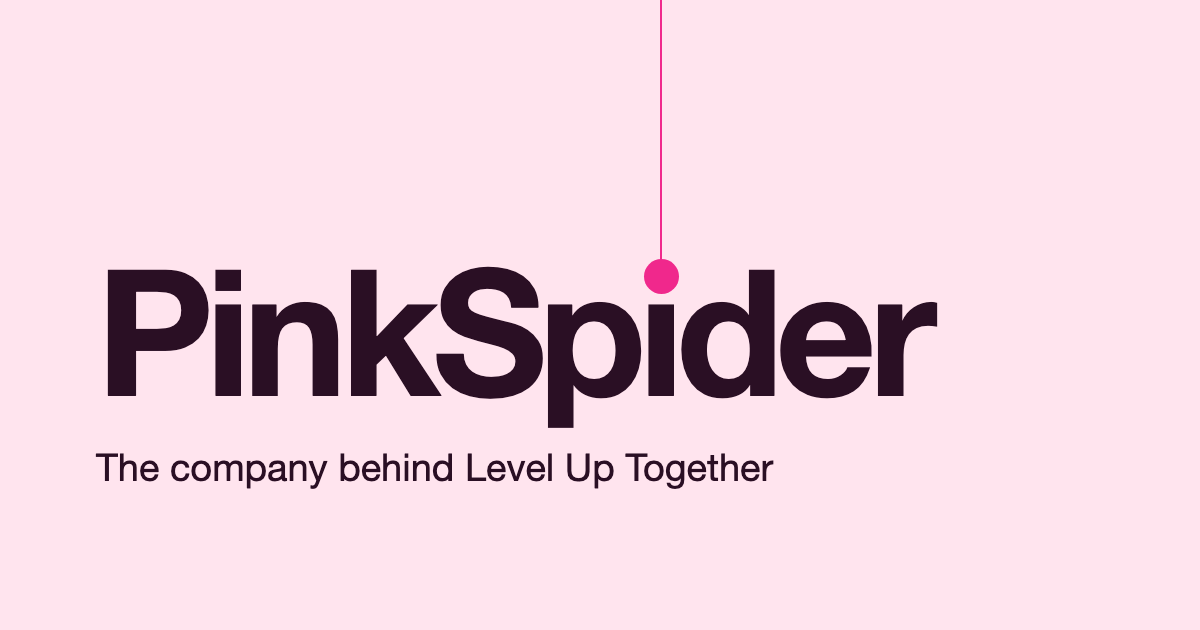
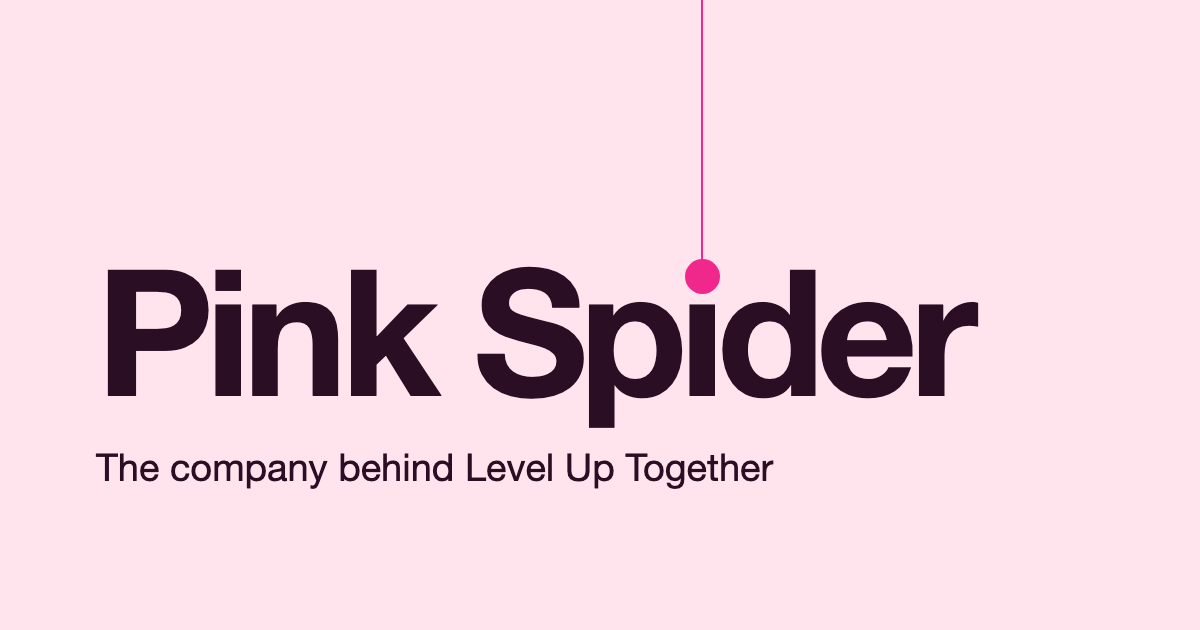
fix: [LUT-855] 회사 이름 Pink Spider 로 표기 통일

Changed region(s): [[0.3392, 0.3921, 0.8325, 0.6937]]

diff --git a/ko/index.html b/ko/index.html
@@ -3,10 +3,10 @@
   <head>
     <meta charset="utf-8" />
     <meta name="viewport" content="width=device-width, initial-scale=1" />
-    <title>PinkSpider | 레벨업투게더를 만드는 회사</title>
+    <title>Pink Spider | 레벨업투게더를 만드는 회사</title>
     <meta
       name="description"
-      content="PinkSpider는 레벨업투게더(Level Up Together)를 만드는 소프트웨어 회사입니다. 레벨업투게더는 할 일을 미션으로 바꾸고, 완료할 때마다 레벨이 오르는 앱입니다. 웹, iOS, Android에서 쓸 수 있습니다."
+      content="Pink Spider는 레벨업투게더(Level Up Together)를 만드는 소프트웨어 회사입니다. 레벨업투게더는 할 일을 미션으로 바꾸고, 완료할 때마다 레벨이 오르는 앱입니다. 웹, iOS, Android에서 쓸 수 있습니다."
     />
     <link rel="canonical" href="https://pink-spider.io/ko/" />
     <link rel="alternate" hreflang="en" href="https://pink-spider.io/" />
@@ -16,8 +16,8 @@
     <meta name="theme-color" content="#ffe4ee" media="(prefers-color-scheme: light)" />
     <meta name="theme-color" content="#210b1c" media="(prefers-color-scheme: dark)" />
     <meta property="og:type" content="website" />
-    <meta property="og:site_name" content="PinkSpider" />
-    <meta property="og:title" content="PinkSpider | 레벨업투게더를 만드는 회사" />
+    <meta property="og:site_name" content="Pink Spider" />
+    <meta property="og:title" content="Pink Spider | 레벨업투게더를 만드는 회사" />
     <meta
       property="og:description"
       content="할 일을 미션으로 바꾸고, 완료할 때마다 레벨이 오르는 앱 레벨업투게더를 만듭니다."
@@ -34,8 +34,7 @@
       {
         "@context": "https://schema.org",
         "@type": "Organization",
-        "name": "PinkSpider",
-        "legalName": "PinkSpider Co.",
+        "name": "Pink Spider",
         "url": "https://pink-spider.io/",
         "email": "contact@pink-spider.io",
         "employee": {
@@ -59,9 +58,9 @@
 
     <main>
       <header class="hero">
-        <h1 class="wordmark" lang="en">PinkSp<span class="wordmark__i">i<span class="spider" aria-hidden="true"><span class="spider__body"></span></span></span>der</h1>
+        <h1 class="wordmark" lang="en">Pink Sp<span class="wordmark__i">i<span class="spider" aria-hidden="true"><span class="spider__body"></span></span></span>der</h1>
         <p class="lede">
-          PinkSpider는 소프트웨어 회사입니다. 할&nbsp;일을 미션으로 바꾸고, 완료할 때마다 레벨이
+          Pink&nbsp;Spider는 소프트웨어 회사입니다. 할&nbsp;일을 미션으로 바꾸고, 완료할 때마다 레벨이
           오르는 앱 레벨업투게더를 만듭니다.
         </p>
       </header>
@@ -109,7 +108,7 @@
         <h2 class="section__title" id="company-title">회사 정보</h2>
         <dl class="facts">
           <dt>회사</dt>
-          <dd lang="en">PinkSpider Co.</dd>
+          <dd lang="en">Pink Spider</dd>
           <dt>대표자</dt>
           <dd>박윤구</dd>
           <dt>문의</dt>
@@ -121,7 +120,7 @@
     </main>
 
     <footer class="footer">
-      <p lang="en">© 2026 PinkSpider Co.</p>
+      <p lang="en">© 2026 Pink Spider</p>
     </footer>
   </body>
 </html>

diff --git a/index.html b/index.html
@@ -3,10 +3,10 @@
   <head>
     <meta charset="utf-8" />
     <meta name="viewport" content="width=device-width, initial-scale=1" />
-    <title>PinkSpider | The company behind Level Up Together</title>
+    <title>Pink Spider | The company behind Level Up Together</title>
     <meta
       name="description"
-      content="PinkSpider is the software company that makes Level Up Together, an app that turns to-dos into missions and levels you up as you complete them. Available on the web, iOS, and Android."
+      content="Pink Spider is the software company that makes Level Up Together, an app that turns to-dos into missions and levels you up as you complete them. Available on the web, iOS, and Android."
     />
     <link rel="canonical" href="https://pink-spider.io/" />
     <link rel="alternate" hreflang="en" href="https://pink-spider.io/" />
@@ -16,8 +16,8 @@
     <meta name="theme-color" content="#ffe4ee" media="(prefers-color-scheme: light)" />
     <meta name="theme-color" content="#210b1c" media="(prefers-color-scheme: dark)" />
     <meta property="og:type" content="website" />
-    <meta property="og:site_name" content="PinkSpider" />
-    <meta property="og:title" content="PinkSpider | The company behind Level Up Together" />
+    <meta property="og:site_name" content="Pink Spider" />
+    <meta property="og:title" content="Pink Spider | The company behind Level Up Together" />
     <meta
       property="og:description"
       content="We make Level Up Together, an app that turns to-dos into missions and levels you up as you complete them."
@@ -34,8 +34,7 @@
       {
         "@context": "https://schema.org",
         "@type": "Organization",
-        "name": "PinkSpider",
-        "legalName": "PinkSpider Co.",
+        "name": "Pink Spider",
         "url": "https://pink-spider.io/",
         "email": "contact@pink-spider.io",
         "employee": {
@@ -57,9 +56,9 @@
 
     <main>
       <header class="hero">
-        <h1 class="wordmark">PinkSp<span class="wordmark__i">i<span class="spider" aria-hidden="true"><span class="spider__body"></span></span></span>der</h1>
+        <h1 class="wordmark">Pink Sp<span class="wordmark__i">i<span class="spider" aria-hidden="true"><span class="spider__body"></span></span></span>der</h1>
         <p class="lede">
-          PinkSpider is a software company. We make Level Up Together, an app that turns your
+          Pink Spider is a software company. We make Level Up Together, an app that turns your
           <span class="nowrap">to-dos</span> into missions and levels you up as you complete them.
         </p>
       </header>
@@ -107,7 +106,7 @@
         <h2 class="section__title" id="company-title">Company</h2>
         <dl class="facts">
           <dt>Name</dt>
-          <dd>PinkSpider Co.</dd>
+          <dd>Pink Spider</dd>
           <dt>Representative</dt>
           <dd>Yungoo Park</dd>
           <dt>Contact</dt>
@@ -119,7 +118,7 @@
     </main>
 
     <footer class="footer">
-      <p>© 2026 PinkSpider Co.</p>
+      <p>© 2026 Pink Spider</p>
     </footer>
   </body>
 </html>

diff --git a/404.html b/404.html
@@ -3,7 +3,7 @@
   <head>
     <meta charset="utf-8" />
     <meta name="viewport" content="width=device-width, initial-scale=1" />
-    <title>Page not found | PinkSpider</title>
+    <title>Page not found | Pink Spider</title>
     <meta name="robots" content="noindex" />
     <link rel="icon" href="/assets/favicon.svg" type="image/svg+xml" />
     <meta name="theme-color" content="#ffe4ee" media="(prefers-color-scheme: light)" />
@@ -13,8 +13,8 @@
   <body>
     <main class="notfound">
       <h1 class="notfound__title">This page does not exist.</h1>
-      <p>Go to the <a href="/">PinkSpider home page</a>.</p>
-      <p lang="ko">없는 주소입니다. <a href="/ko/">PinkSpider 첫 화면</a>으로 가세요.</p>
+      <p>Go to the <a href="/">Pink&nbsp;Spider home page</a>.</p>
+      <p lang="ko">없는 주소입니다. <a href="/ko/">Pink&nbsp;Spider 첫 화면</a>으로 가세요.</p>
     </main>
   </body>
 </html>

diff --git a/assets/site.css b/assets/site.css
@@ -1,4 +1,4 @@
-/* PinkSpider 회사 사이트 — 한 장짜리 정적 페이지. 외부 요청(글꼴·스크립트·분석)이 없다. */
+/* Pink Spider 회사 사이트 — 한 장짜리 정적 페이지. 외부 요청(글꼴·스크립트·분석)이 없다. */
 
 :root {
   color-scheme: light dark;

diff --git a/README.md b/README.md
@@ -1,6 +1,6 @@
 # pink-spider.io
 
-PinkSpider 회사 사이트입니다. 주소는 <https://pink-spider.io> 입니다.
+Pink Spider 회사 사이트입니다. 주소는 <https://pink-spider.io> 입니다.
 
 - 한 장짜리 정적 페이지입니다. 빌드 과정이 없습니다.
 - 영어(`/`)와 한국어(`/ko/`) 두 가지입니다.
